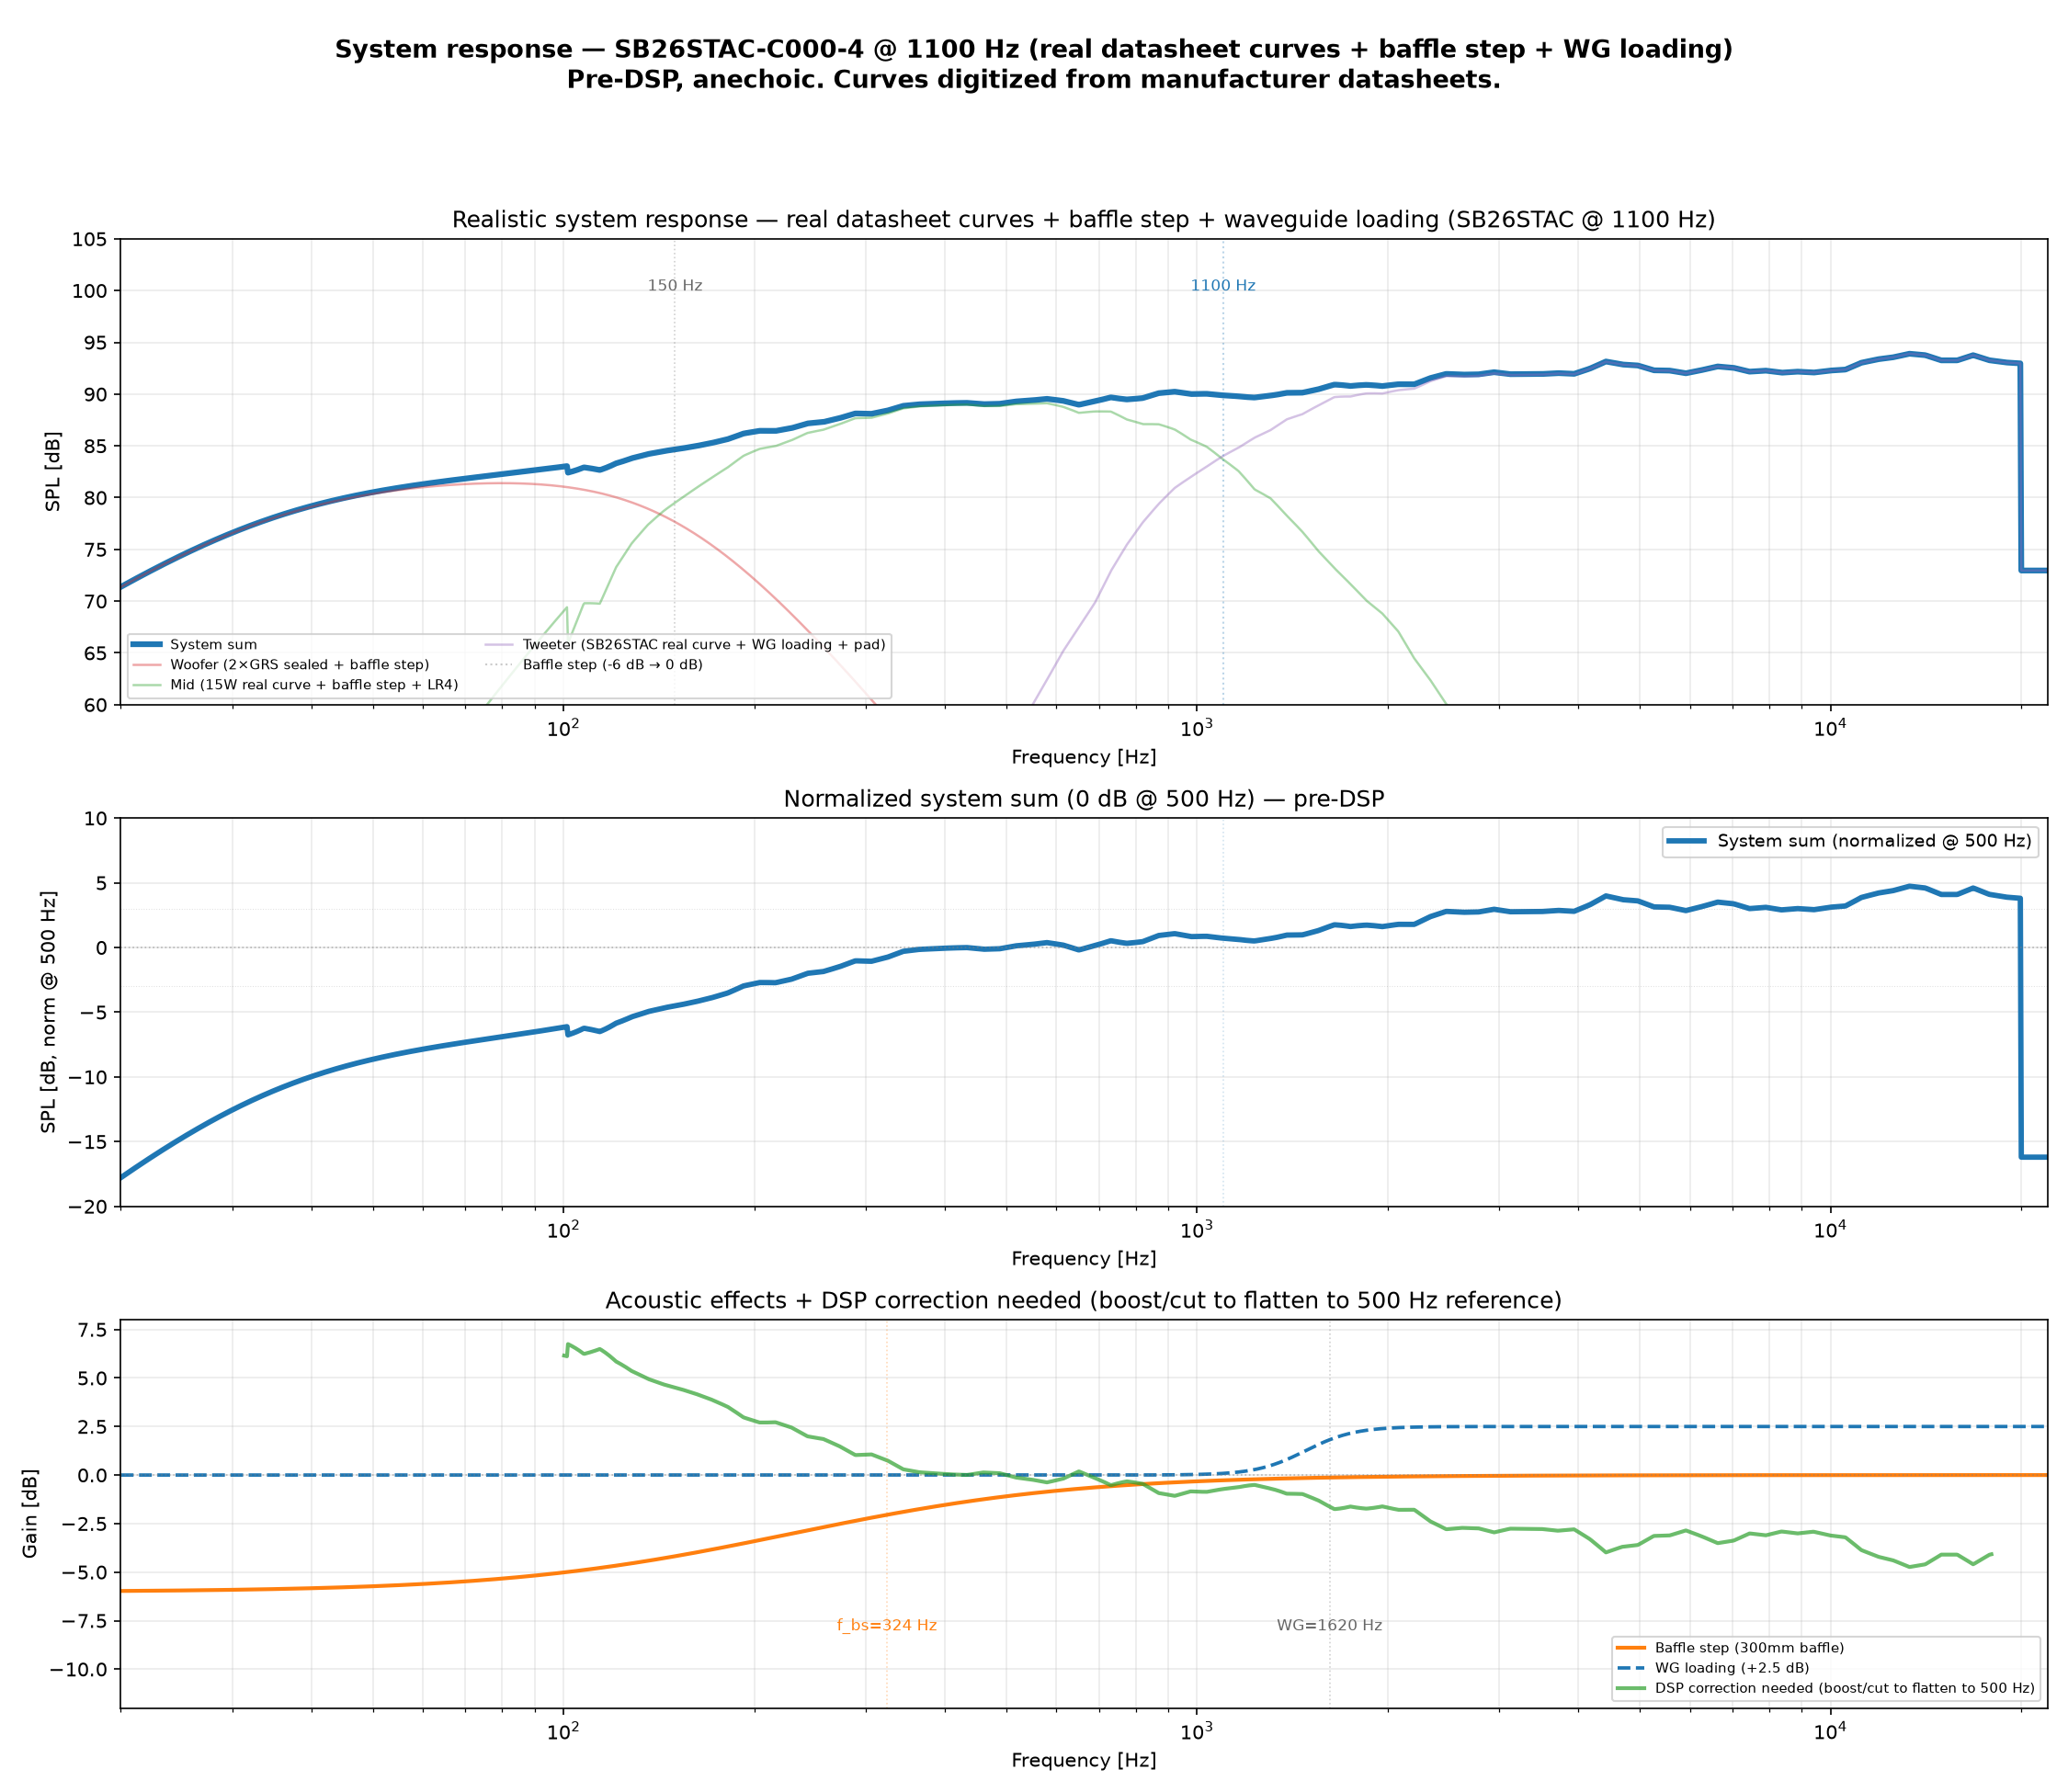
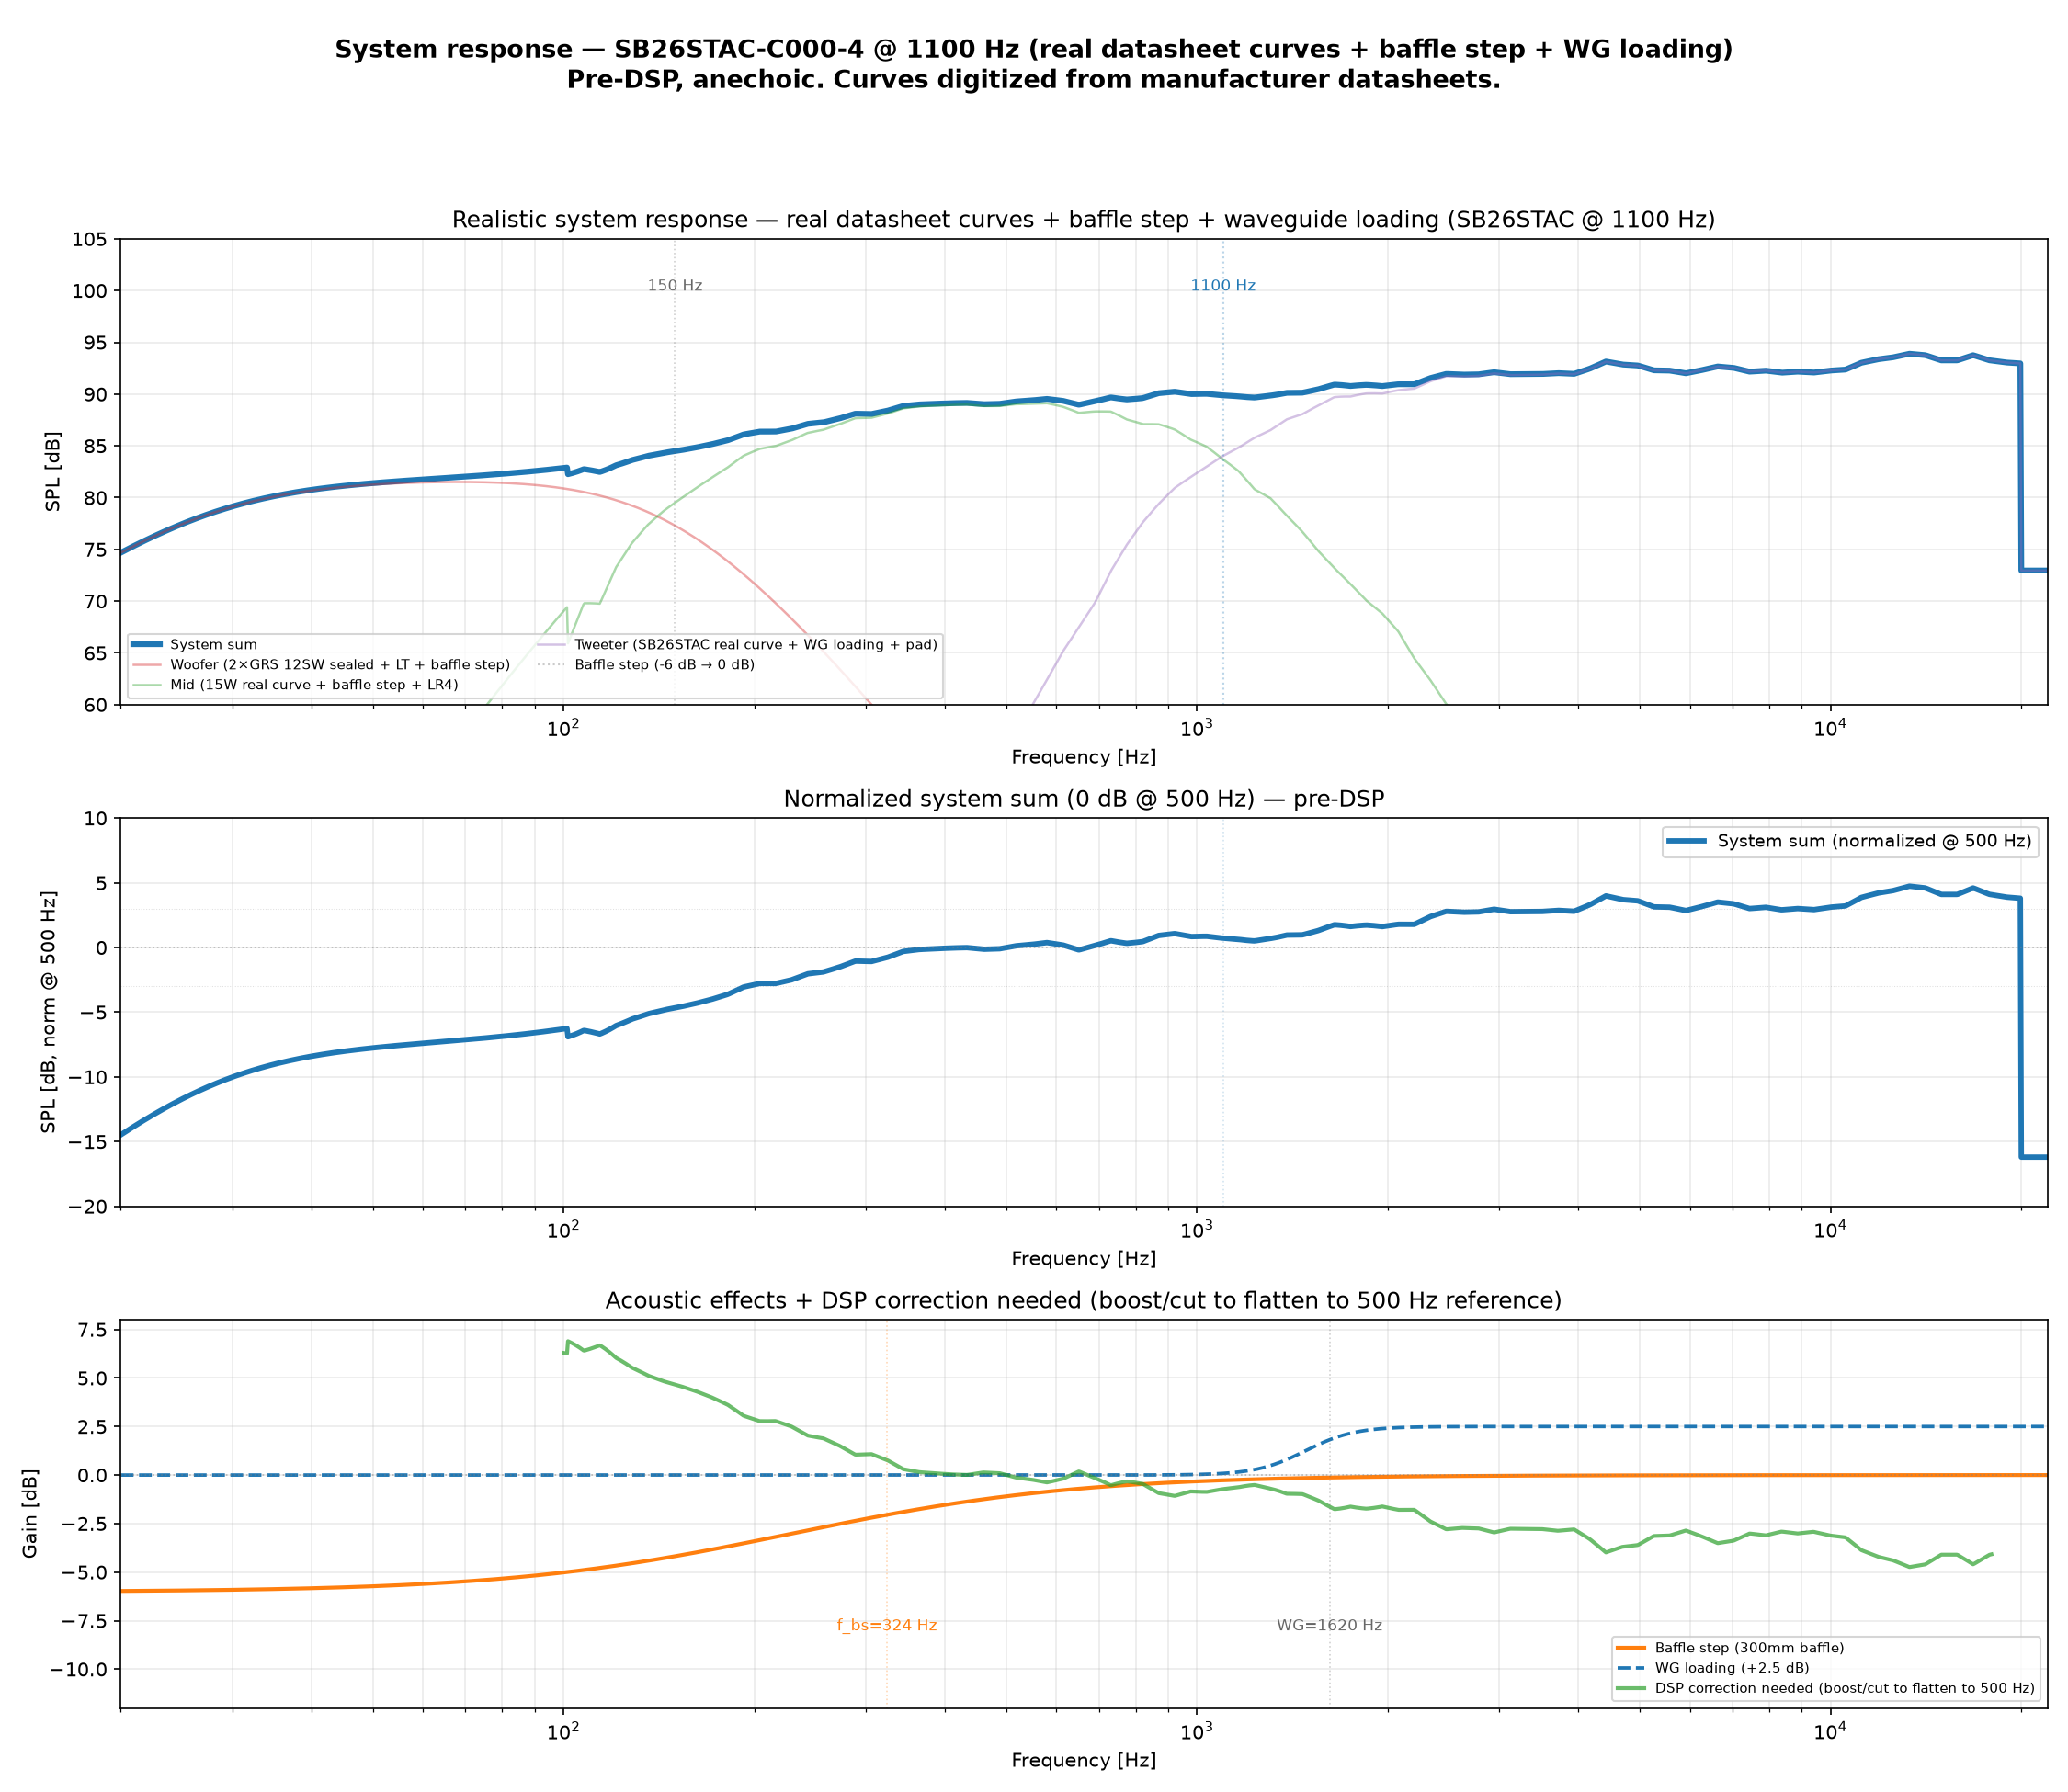
feat: upgrade woofers to GRS 12SW-4HE push-push
Woofer upgrade from 2x GRS 8SW-4HE-8 (8") to 2x GRS 12SW-4HE (12" high
excursion). Same push-push sealed concept, same cabinet footprint.

Key changes:
- Cabinet CAD: woofer cutout 185→284mm, full-width divider plate separating
  mid chamber from bass volume, coupling block updated for 12SW basket depth
- Bass alignment: 12SW in ~75L sealed (Qtc 0.76, Fc 39 Hz) with Linkwitz
  Transform to Fc 28 Hz / Qtc 0.707. +16 dB max SPL at 30 Hz vs previous.
- Displacement: 12.6 cm3 (was 2.0 cm3) — 6.3x more bass headroom
- DSP config: LT params updated (39→28 Hz, Q 0.76→0.707)
- System response: woofer model updated with 12SW + LT

GRS 12SW-4HE specs: Fs 22 Hz, Qts 0.43, Xmax 12.5mm (Klippel verified),
Sd 504 cm2, Bl 16.2 Tm, 250W, ~EUR 75 per driver.

diff --git a/simulations/bass_alignment_maxspl.py b/simulations/bass_alignment_maxspl.py
@@ -1,16 +1,14 @@
 """
-Mk2 Reference Loudspeaker - bass alignment & max-SPL estimate
+Mk3 Reference Loudspeaker - bass alignment & max-SPL estimate
 =============================================================
 
 ASSUMPTIONS (simplified physics, NOT measured data)
-- 2 x GRS 8SW-4HE per loudspeaker, sealed, shared chamber, push-push.
+- 2 x GRS 12SW-4HE per loudspeaker, sealed, shared chamber, push-push.
 - N-driver sealed relation: Vas_total = N * Vas_single,
   Qtc = Qts*sqrt(1 + Vas_total/Vb), Fc = Fs*sqrt(1 + Vas_total/Vb).
 - Max SPL is the EXCURSION-limited ceiling (anechoic, half-space, 1 m),
   two drivers summing in phase: SPL = 20*log10(k*f^2), capped at a thermal estimate.
-- Driver T/S from the SoundImports datasheet; verify against the official GRS sheet.
-  (Repo doc 03 lists the conservative Xmax 10.8 mm / Sd 227 cm2, matching the
-   datasheet values used here.)
+- Driver T/S from GRS 12SW-4HE datasheet (Klippel verified Xmax).
 
 Output: simulations/plots/bass_alignment_maxspl.png
 """
@@ -22,10 +20,12 @@ import matplotlib.pyplot as plt
 
 rho = 1.18  # kg/m^3
 
-GRS = dict(name="GRS 8SW-4HE (2x)", Fs=24.9, Qts=0.45, Vas=31.7,
-           Sd=227e-4, Xmax=10.8e-3, sens=85.0, Pmax=150, imp=4)
-SB23 = dict(name="SB23NRXS45-8 (2x)", Fs=27.0, Qts=0.38, Vas=94.0,
-            Sd=216e-4, Xmax=6.5e-3, sens=88.5, Pmax=60, imp=8)
+GRS12 = dict(name="GRS 12SW-4HE (2x)", Fs=22.0, Qts=0.43, Vas=80.4,
+             Sd=504e-4, Xmax=12.5e-3, sens=84.5, Pmax=250, imp=4)
+
+# Previous design reference (for comparison)
+GRS8 = dict(name="GRS 8SW-4HE-8 (2x, previous)", Fs=48.0, Qts=0.38, Vas=28.0,
+            Sd=220e-4, Xmax=4.5e-3, sens=85.0, Pmax=100, imp=8)
 
 def sealed(d, Vb):
     a = 2 * d["Vas"] / Vb
@@ -46,52 +46,79 @@ def hp2(f, Fc, Q):
     return s2 / np.sqrt((1 - s2) ** 2 + (f / (Fc * Q)) ** 2)
 
 # ---- alignment table ----
-print("Sealed alignment (2 x GRS 8SW-4HE):")
-for Vb in (62, 69, 73):
-    Qtc, Fc = sealed(GRS, Vb)
+print("Sealed alignment (2 x GRS 12SW-4HE):")
+for Vb in (69, 75, 80, 85):
+    Qtc, Fc = sealed(GRS12, Vb)
     print(f"  Vb = {Vb:>3} L net  ->  Qtc {Qtc:.2f}   Fc {Fc:.1f} Hz")
-Vb = 69
-QtcG, FcG = sealed(GRS, Vb)
-QtcS, FcS = sealed(SB23, Vb)
-kG, kS = k_excursion(GRS), k_excursion(SB23)
-thG, thS = thermal_ceiling(GRS), thermal_ceiling(SB23)
-for tag, k in (("GRS", kG), ("SB23", kS)):
+
+print("\nPrevious design (2 x GRS 8SW-4HE-8) for comparison:")
+for Vb in (69,):
+    Qtc, Fc = sealed(GRS8, Vb)
+    print(f"  Vb = {Vb:>3} L net  ->  Qtc {Qtc:.2f}   Fc {Fc:.1f} Hz")
+
+Vb = 75  # target bass volume (under divider plate)
+Qtc12, Fc12 = sealed(GRS12, Vb)
+Qtc8, Fc8 = sealed(GRS8, 69)
+k12, k8 = k_excursion(GRS12), k_excursion(GRS8)
+th12, th8 = thermal_ceiling(GRS12), thermal_ceiling(GRS8)
+
+for tag, k in (("GRS 12SW", k12), ("GRS 8SW (prev)", k8)):
     print(f"  Max SPL {tag}:  30Hz {20*np.log10(k*30**2):.1f} dB | "
           f"40Hz {20*np.log10(k*40**2):.1f} dB")
 
-# ---- plots ----
-fig, (ax1, ax2) = plt.subplots(1, 2, figsize=(13.5, 5.4))
+# ---- Linkwitz Transform target ----
+Fc_target = 28.0   # Hz
+Qt_target = 0.707
+print(f"\nLinkwitz Transform target: Fc={Fc_target} Hz, Qt={Qt_target}")
+print(f"  GRS 12SW raw: Fc={Fc12:.1f} Hz, Qtc={Qtc12:.2f}")
+print(f"  GRS 8SW raw:  Fc={Fc8:.1f} Hz, Qtc={Qtc8:.2f}")
 
-fb = np.linspace(20, 120, 200)
-ax1.plot(fb, np.minimum(20*np.log10(kG*fb**2), thG), color="tab:red", lw=2.4, label=GRS["name"])
-ax1.plot(fb, np.minimum(20*np.log10(kS*fb**2), thS), color="tab:blue", lw=2.0, label=SB23["name"])
-ax1.axhline(thG, color="tab:red", ls=":", lw=1, alpha=0.6)
-ax1.text(118, thG-1.4, "GRS thermal cap", ha="right", fontsize=7, color="tab:red")
-ax1.set_xscale("log"); ax1.set_xlim(20, 120); ax1.set_ylim(88, 114)
-ax1.set_xticks([20,30,40,50,70,100]); ax1.set_xticklabels(["20","30","40","50","70","100"])
-ax1.minorticks_off()
-ax1.set_xlabel("Frequency [Hz]"); ax1.set_ylabel("Max SPL @1m [dB] (anechoic, half-space)")
-ax1.set_title("Max clean SPL (excursion-limited)")
-ax1.grid(True, which="both", alpha=0.25); ax1.legend(fontsize=8, loc="lower right")
+# ---- plot ----
+f = np.logspace(np.log10(10), np.log10(500), 500)
+fig, axes = plt.subplots(2, 1, figsize=(12, 10), sharex=True)
 
-f = np.logspace(np.log10(18), np.log10(200), 400)
-ax2.plot(f, 20*np.log10(hp2(f, FcG, QtcG)), color="tab:red", lw=2.4,
-         label=f"GRS in {Vb} L (Qtc {QtcG:.2f}, Fc {FcG:.0f})")
-ax2.plot(f, 20*np.log10(hp2(f, 28, 0.707)), color="tab:red", lw=1.6, ls="--",
-         label="GRS + Linkwitz Transform (Fc 28, Q0.71)")
-ax2.plot(f, 20*np.log10(hp2(f, FcS, QtcS)), color="tab:blue", lw=1.8,
-         label=f"SB23 in {Vb} L (Qtc {QtcS:.2f}, Fc {FcS:.0f})")
-ax2.axhline(-3, color="0.6", ls=":", lw=1); ax2.text(190, -2.6, "-3 dB", ha="right", fontsize=7, color="0.5")
-ax2.set_xscale("log"); ax2.set_xlim(18, 200); ax2.set_ylim(-15, 4)
-ax2.set_xticks([20,30,50,70,100,150]); ax2.set_xticklabels(["20","30","50","70","100","150"])
-ax2.minorticks_off()
-ax2.set_xlabel("Frequency [Hz]"); ax2.set_ylabel("Relative [dB]")
-ax2.set_title("Sealed bass response (anechoic)")
-ax2.grid(True, which="both", alpha=0.25); ax2.legend(fontsize=7.5, loc="lower right")
+# Top: sealed response
+ax = axes[0]
+ax.set_title(f"Bass alignment: 2× GRS 12SW-4HE (sealed {Vb}L) vs 2× GRS 8SW-4HE-8 (sealed 69L)",
+             fontsize=13, fontweight="bold")
+for d, Vb_d, col, ls in [(GRS12, Vb, "tab:blue", "-"),
+                          (GRS8, 69, "tab:orange", "--")]:
+    Qtc, Fc = sealed(d, Vb_d)
+    H = hp2(f, Fc, Qtc)
+    sens = d["sens"] + 3  # +3 dB push-push
+    ax.plot(f, 20*np.log10(H) + sens, col, ls=ls, lw=2,
+            label=f'{d["name"]}: Qtc={Qtc:.2f}, Fc={Fc:.1f} Hz')
+    # With Linkwitz Transform
+    H_lt = hp2(f, Fc_target, Qt_target)
+    ax.plot(f, 20*np.log10(H_lt) + sens, col, ls=":", lw=1.5, alpha=0.7,
+            label=f'{d["name"]} + LT (Fc={Fc_target} Hz)')
+ax.set_ylabel("SPL (dB @ 2.83V/1m)")
+ax.set_ylim(50, 100)
+ax.set_xlim(10, 500)
+ax.set_xscale("log")
+ax.axhline(sens, color="0.5", ls=":", lw=0.5)
+ax.legend(fontsize=9, loc="lower left")
+ax.grid(True, which="both", alpha=0.3)
 
-fig.suptitle("Mk2 bass: 2x GRS 8SW-4HE sealed (~%d L) - simplified estimate" % Vb, fontsize=13)
-fig.tight_layout(rect=[0, 0, 1, 0.95])
+# Bottom: max SPL
+ax = axes[1]
+ax.set_title("Excursion-limited max SPL (half-space, 1m)", fontsize=13, fontweight="bold")
+for d, col, ls, lbl in [(GRS12, "tab:blue", "-", "GRS 12SW-4HE"),
+                         (GRS8, "tab:orange", "--", "GRS 8SW-4HE-8 (prev)")]:
+    k = k_excursion(d)
+    th = thermal_ceiling(d)
+    spl = np.minimum(20*np.log10(k * f**2), th)
+    ax.plot(f, spl, col, ls=ls, lw=2, label=f'{lbl} ({2*d["Sd"]*1e4:.0f} cm² Sd, {d["Xmax"]*1e3:.1f} mm Xmax)')
+    ax.axhline(th, color=col, ls=":", lw=0.8, alpha=0.5)
+ax.set_ylabel("Max SPL (dB)")
+ax.set_xlabel("Frequency (Hz)")
+ax.set_ylim(80, 120)
+ax.set_xlim(10, 500)
+ax.set_xscale("log")
+ax.legend(fontsize=9)
+ax.grid(True, which="both", alpha=0.3)
+
+plt.tight_layout()
 out = os.path.join(os.path.dirname(__file__), "plots", "bass_alignment_maxspl.png")
-os.makedirs(os.path.dirname(out), exist_ok=True)
-fig.savefig(out, dpi=135)
-print("wrote", out)
+fig.savefig(out, dpi=150)
+print(f"\nwrote {out}")

diff --git a/simulations/bass_volume_compare.py b/simulations/bass_volume_compare.py
@@ -1,14 +1,11 @@
 """
-Mk2 Reference Loudspeaker - sealed bass volume comparison (65 / 68 / 70 L ...)
-=============================================================================
-
-Closes the TODO "Compare 65 L / 68 L / 70 L / Compare Qtc / Compare group delay".
+Mk3 Reference Loudspeaker - sealed bass volume comparison (70-85 L)
+===================================================================
 
 ASSUMPTIONS (simplified, small-signal, sealed box)
-- Two GRS 8SW-4HE in one sealed box behave as one equivalent driver with
-  Vas_total = 2 * Vas_single (see docs/03, docs/09). T/S from the SoundImports
-  datasheet (verify against the official GRS sheet):
-      Fs = 24.9 Hz, Qts = 0.45, Vas_single = 31.7 L  ->  Vas_total = 63.4 L
+- Two GRS 12SW-4HE in one sealed box behave as one equivalent driver with
+  Vas_total = 2 * Vas_single. T/S from GRS 12SW-4HE datasheet:
+      Fs = 22.0 Hz, Qts = 0.43, Vas_single = 80.4 L  ->  Vas_total = 160.8 L
 - Sealed alignment:  Qtc = Qts*sqrt(1 + Vas_total/Vb),  Fc = Fs*sqrt(1 + ...).
 - Acoustic roll-off is the ideal 2nd-order high-pass set by (Fc, Qtc); real
   output adds box losses, leakage and room gain. This compares alignments; it is
@@ -23,24 +20,22 @@ matplotlib.use("Agg")
 import matplotlib.pyplot as plt
 
 # --- driver / system constants ---
-Fs        = 24.9      # Hz
-Qts       = 0.45
-Vas_total = 63.4      # L  (2 x 31.7)
+Fs        = 22.0      # Hz
+Qts       = 0.43
+Vas_total = 160.8     # L  (2 x 80.4)
 
-volumes = [64, 66, 68, 69, 70, 72]   # L net, 69 L is the v6b target
-highlight = 69
+volumes = [69, 72, 75, 78, 80, 85]   # L net, 75 L is the target
+highlight = 75
 
 def alignment(Vb):
     k   = np.sqrt(1.0 + Vas_total / Vb)
     Qtc = Qts * k
     Fc  = Fs * k
-    # closed-box -3 dB frequency (2nd-order high-pass)
     a   = 1.0 / Qtc**2 - 2.0
     f3  = Fc * np.sqrt((a + np.sqrt(a*a + 4.0)) / 2.0)
     return Qtc, Fc, f3
 
 def hp2(f, Fc, Qtc):
-    # 2nd-order high-pass transfer function, s = j*w/wc
     s = 1j * (f / Fc)
     return (s*s) / (s*s + (1.0/Qtc)*s + 1.0)
 
@@ -58,7 +53,7 @@ for Vb in volumes:
     Qtc, Fc, f3 = alignment(Vb)
     gd = group_delay_ms(f, Fc, Qtc)
     results[Vb] = (Qtc, Fc, f3, gd)
-    tag = "  <- v6b" if Vb == highlight else ""
+    tag = "  <- target" if Vb == highlight else ""
     print(f"{Vb:>7} {Qtc:>6.3f} {Fc:>8.1f} {f3:>8.1f} {gd.max():>12.1f}{tag}")
 
 fig, (ax1, ax2) = plt.subplots(2, 1, figsize=(9, 8.2), sharex=True)
@@ -76,13 +71,13 @@ for Vb in volumes:
 ax1.axhline(-3, color="0.6", ls=":", lw=1)
 ax1.text(11, -3.4, "-3 dB", fontsize=8, color="0.4")
 ax1.set_ylim(-18, 3); ax1.set_ylabel("Relative SPL [dB]")
-ax1.set_title("Sealed alignment vs net box volume (2 x GRS 8SW-4HE, ideal 2nd-order)")
+ax1.set_title("Sealed alignment vs net box volume (2 x GRS 12SW-4HE, ideal 2nd-order)")
 ax1.grid(True, which="both", alpha=0.25); ax1.legend(fontsize=7.5, loc="lower right")
 
 ax2.set_ylabel("Group delay [ms]"); ax2.set_xlabel("Frequency [Hz]")
 ax2.set_xlim(10, 300); ax2.grid(True, which="both", alpha=0.25)
 ax2.text(11, 0.3, "Qtc < 0.707 -> no peaking; group delay stays low and smooth.\n"
-                  "65 -> 72 L barely moves Fc/Qtc: the alignment is robust to build tolerance.",
+                  "69 -> 85 L barely moves Fc/Qtc: the alignment is robust to build tolerance.",
          fontsize=8, color="0.3", va="bottom")
 
 out = os.path.join(os.path.dirname(__file__), "plots", "bass_volume_compare.png")

diff --git a/dsp-configs/generate_minidsp_xml.py b/dsp-configs/generate_minidsp_xml.py
@@ -135,9 +135,9 @@ def build_mk2_config(
     tweeter_trim: float = -5.5,
     subsonic_hp: float = 18,
     subsonic_hp_type: str = "lr4",
-    woofer_lt_fc: Optional[float] = 47.2,
+    woofer_lt_fc: Optional[float] = 39.0,
     woofer_lt_fs: Optional[float] = 28.0,
-    woofer_lt_qc: Optional[float] = 0.63,
+    woofer_lt_qc: Optional[float] = 0.76,
     woofer_lt_qs: Optional[float] = 0.707,
 ) -> list[OutputChannel]:
     """Build the complete channel configuration for the Mk2 3-way + push-push woofer."""
@@ -156,7 +156,7 @@ def build_mk2_config(
 
     if woofer_lt_fc and woofer_lt_fs:
         coeffs = build_linkwitz_transform(
-            fc=woofer_lt_fc, Qc=woofer_lt_qc or 0.63,
+            fc=woofer_lt_fc, Qc=woofer_lt_qc or 0.76,
             fs_target=woofer_lt_fs, Q_target=woofer_lt_qs or 0.707,
             sample_rate=sample_rate,
         )
@@ -190,13 +190,13 @@ def build_mk2_config(
     # Tweeter is physically shallower → needs delayed by ~0.12 ms to align
 
     return [
-        OutputChannel(label="GRS Woofer L Top",  gain_db=0.0,  delay_ms=0.0,    biquads=woofer_biquads),
-        OutputChannel(label="GRS Woofer L Bot",  gain_db=0.0,  delay_ms=0.0,    biquads=woofer_biquads),
+        OutputChannel(label="12SW Woofer L Top",  gain_db=0.0,  delay_ms=0.0,    biquads=woofer_biquads),
+        OutputChannel(label="12SW Woofer L Bot",  gain_db=0.0,  delay_ms=0.0,    biquads=woofer_biquads),
         OutputChannel(label="15W/4434G00 Mid L", gain_db=0.0,  delay_ms=0.0,    biquads=mid_biquads),
         OutputChannel(label="H2606 Tweeter L",   gain_db=tweeter_trim, delay_ms=0.12, biquads=tweeter_biquads),
         OutputChannel(label="(Spare input)",     gain_db=0.0,  delay_ms=0.0,    biquads=[]),
-        OutputChannel(label="GRS Woofer R Top",  gain_db=0.0,  delay_ms=0.0,    biquads=woofer_biquads),
-        OutputChannel(label="GRS Woofer R Bot",  gain_db=0.0,  delay_ms=0.0,    biquads=woofer_biquads),
+        OutputChannel(label="12SW Woofer R Top",  gain_db=0.0,  delay_ms=0.0,    biquads=woofer_biquads),
+        OutputChannel(label="12SW Woofer R Bot",  gain_db=0.0,  delay_ms=0.0,    biquads=woofer_biquads),
         OutputChannel(label="15W/4434G00 Mid R", gain_db=0.0,  delay_ms=0.0,    biquads=mid_biquads),
         OutputChannel(label="H2606 Tweeter R",   gain_db=tweeter_trim, delay_ms=0.12, biquads=tweeter_biquads),
         OutputChannel(label="(Spare output)",    gain_db=0.0,  delay_ms=0.0,    biquads=[]),
@@ -293,7 +293,7 @@ def generate_xml(
     mid_lp: float = 1250,
     tweeter_hp: float = 1250,
     subsonic_hp: float = 18,
-    woofer_lt_fc: Optional[float] = 47.2,
+    woofer_lt_fc: Optional[float] = 39.0,
     woofer_lt_fs: Optional[float] = 28.0,
 ) -> str:
     """Generate complete MiniDSP plugin XML from channel config."""
@@ -308,7 +308,7 @@ def generate_xml(
     lt_str = f"LT {woofer_lt_fc}->{woofer_lt_fs}" if woofer_lt_fc and woofer_lt_fs else "no LT"
     desc_parts = [
         f"3-way + push-push woofer.",
-        f"GRS 8SW-4HE-8 ×2 | ScanSpeak 15W/4434G00 | {tweeter_name}.",
+        f"GRS 12SW-4HE ×2 | ScanSpeak 15W/4434G00 | {tweeter_name}.",
         f"XO: {woofer_lp}/{mid_hp}-{mid_lp}/{tweeter_hp} Hz LR4.",
         f"Sub HP {subsonic_hp} Hz {lt_str}.",
         f"Sample rate: {sample_rate} Hz.",
@@ -430,7 +430,7 @@ Examples:
             tweeter_hp_type=args.tweeter_hp_type,
             tweeter_trim=args.tweeter_trim,
             subsonic_hp=sub_hp,
-            woofer_lt_fc=None if args.no_lt else 47.2,
+            woofer_lt_fc=None if args.no_lt else 39.0,
             woofer_lt_fs=None if args.no_lt else 28.0,
         )
 
@@ -440,7 +440,7 @@ Examples:
     mid_lp_val = args.mid_lp if not args.two_way else 0
     tweeter_hp_val = args.tweeter_hp
     sub_hp_val = 0 if args.no_subsonic else args.subsonic_hp
-    lt_fc_val = None if args.no_lt else 47.2
+    lt_fc_val = None if args.no_lt else 39.0
     lt_fs_val = None if args.no_lt else 28.0
 
     xml = generate_xml(channels, sr,

diff --git a/simulations/system_response_realistic.py b/simulations/system_response_realistic.py
@@ -7,7 +7,7 @@ datasheets (digitized from the PDF graphs), combined with:
 
   1. Baffle step (Vanderkooy model, 300mm cabinet baffle)
   2. Waveguide loading (WG212 acoustic gain above control limit)
-  3. Sealed woofer alignment (2x GRS 8SW-4HE, Fc=34.5 Hz, Qtc=0.62)
+  3. Sealed woofer alignment (2x GRS 12SW-4HE, Fc=28 Hz with LT, Qtc=0.707)
   4. LR4 crossover filters (150 Hz + 1100 Hz)
   5. DSP level matching (tweeter pad to match midrange)
 
@@ -139,13 +139,15 @@ def wg_loading_db(f, gain_db, f_low=1000, f_high=2000):
 # ============================================================
 #  Woofer model: sealed alignment
 # ============================================================
-# 2x GRS 8SW-4HE-8 in ~69L sealed
-# Fc = 34.5 Hz, Qtc = 0.62, sensitivity 85 dB (2 drivers + 3dB = 88 dB half-space)
-Fc_w = 34.5; Qtc_w = 0.62; sens_w = 85.0  # per driver, 2 drivers ≈ +3 dB
-# Note: datasheet sensitivity for GRS is ~85 dB, two in push-push = +3 dB = 88 dB
+# 2x GRS 12SW-4HE in ~75L sealed (bass volume under divider plate)
+# Fs=22, Qts=0.43, Vas=80.4L per driver -> Vas_total=160.8L
+# In 75L: Qtc=0.76, Fc=39.0 Hz
+# With Linkwitz Transform: Fc=28 Hz, Qtc=0.707
+# Sensitivity 84.5 dB per driver, 2 in push-push = +3 dB = 87.5 dB half-space
+Fc_w = 28.0; Qtc_w = 0.707; sens_w = 84.5  # per driver, 2 drivers ≈ +3 dB (with LT)
 
 def woofer_response(f):
-    """Sealed woofer pair response."""
+    """Sealed woofer pair response with Linkwitz Transform."""
     s = 1j * f / Fc_w
     H_sealed = s**2 / (s**2 + s/Qtc_w + 1)
     mag = 20*np.log10(np.abs(H_sealed) + 1e-12) + (sens_w + 3.0)  # +3 dB for 2 drivers
@@ -232,7 +234,7 @@ fig, axes = plt.subplots(3, 1, figsize=(15, 13), gridspec_kw={"height_ratios": [
 # --- Panel 1: Individual drivers + system sum ---
 ax = axes[0]
 ax.semilogx(f, mag_sum, lw=3.0, color="tab:blue", label="System sum")
-ax.semilogx(f, mag_w, lw=1.2, color="tab:red", alpha=0.4, label="Woofer (2×GRS sealed + baffle step)")
+ax.semilogx(f, mag_w, lw=1.2, color="tab:red", alpha=0.4, label="Woofer (2×GRS 12SW sealed + LT + baffle step)")
 ax.semilogx(f, mag_m, lw=1.2, color="tab:green", alpha=0.4, label="Mid (15W real curve + baffle step + LR4)")
 ax.semilogx(f, mag_t_trimmed, lw=1.2, color="tab:purple", alpha=0.4, label="Tweeter (SB26STAC real curve + WG loading + pad)")
 